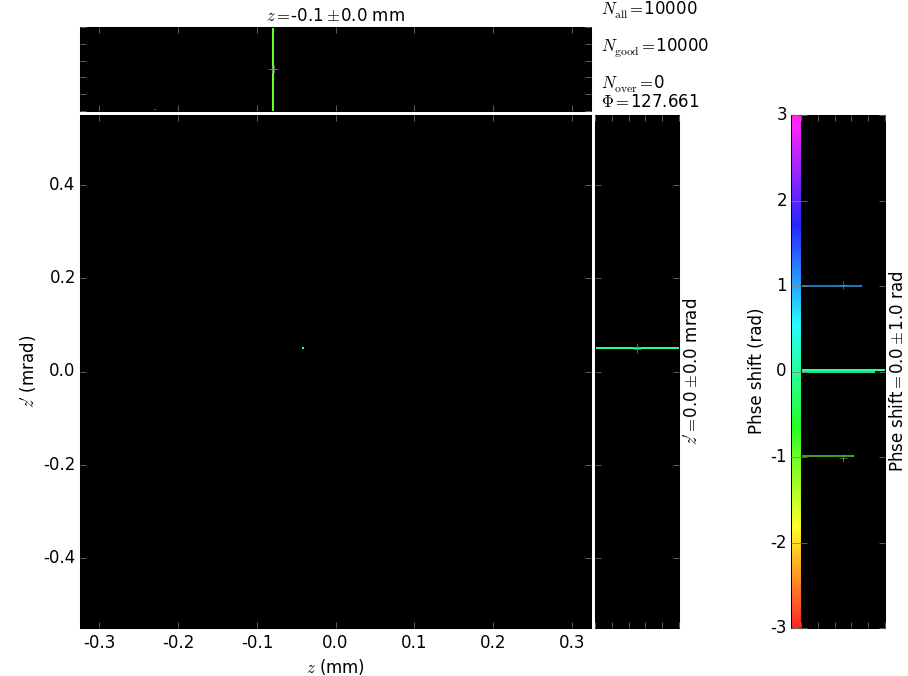
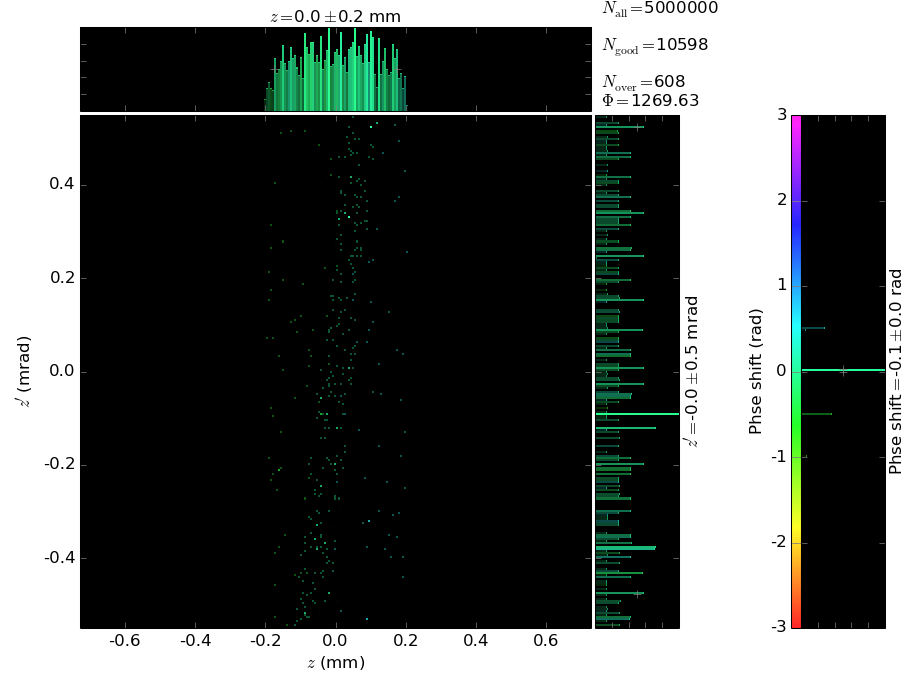
Suspiciously low transmission

diff --git a/simplfiedMonoCapillary.py b/simplfiedMonoCapillary.py
@@ -29,27 +29,27 @@ import scipy.io
     
 # ray traycing settings    
 mGlass = rm.Material(('Si', 'O'), quantities=(1, 2), rho=2.2)
-repeats = 1e3    # number of ray traycing iterations
+repeats = 1e4    # number of ray traycing iterations
 E0 = 9000.          # energy in electronoVolts
-nRefl = 480          # number of reflections
+nRefl = 100          # number of reflections
 
 # capillary shape parameters
 rSample = 30.0 # starting position of the lens
 L_ = 100.0
 f = rSample + L_ # y length in mm from foucs to the end of the lens
-r0 = 0.09
-rOut = 0.09
+r0 = 0.202
+rOut = 0.202
 wall = 0.005
 
 # parameters for local_x0 function for actual shape definition
-y_in    = 2.5            # entrance height
+y_in    = 0.1            # entrance height
 rS      = float(rSample)    # light source - capillary distance 
 # Cosh parameter for tangential ray entrance
 a_      = -L_/2/np.arcsinh(-y_in/rS)
 print a_, y_in/rS
 
 # image acquisition
-screen1_pos = rSample + 100     # not really used
+screen1_pos = rSample     # not really used
 screen2_pos = f + 1             # first image position outside capillary
 max_plots = 0                   # for imaging different position at once| 0=off
 
@@ -129,24 +129,26 @@ class StraightCapillary(roe.OE):
         z = r * np.cos(phi)
         return x, y, z
         
-def build_beamline(nrays=5000):
+def build_beamline(nrays=500):
     beamLine = raycing.BeamLine(height=0)
     # source checked @SourceView.py
     rs.GeometricSource(
         beamLine,'GeometricSource',(0,0,0), nrays=nrays,
         distx=distx, dx=dx, distxprime=distxprime, dxprime=dxprime,
         distz=distz, dz=dz, distzprime=distzprime, dzprime=dzprime,
-        distE='lines', energies=(E0,), polarization=None)              
+        distE='lines', energies=(E0,), polarization='horizontal')              
     # yo    
     beamLine.fsm1 = rsc.Screen(beamLine, 'DiamondFSM1', (0,screen1_pos,0))
     
-    alpha = 0.0
+    alpha = np.arctan(y_in/rSample)
     roll = 0 # test if this rotates whole object
-    limPhysY=[rSample*np.cos(alpha)]
+    limPhysY=[rSample*np.cos(alpha),f]
+#    limPhysY=[0, f]
+
     
     capillary = StraightCapillary(
         beamLine, 'StraightCapillary', [0,0,0], roll=roll,
-        material=mGlass, limPhysY=[0, f],
+        material=mGlass, limPhysY=limPhysY,
         order=8, f=f, rSample=rSample, entranceAlpha=alpha, rIn=r0, rOut=rOut)
     beamLine.capillary = capillary         
 #    beamLine.capillaries.append(capillary)         
@@ -225,7 +227,7 @@ def main():
     """
     REAL SPACE PLOT
     """
-    plot = xrtp.XYCPlot('beamFSM2', (1,3),
+    plot = xrtp.XYCPlot('beamFSM2', (1,),
         xaxis=xrtp.XYCAxis(r"$x$", 'mm', data=raycing.get_x, bins=256, ppb=2, limits=xLimits),
         yaxis=xrtp.XYCAxis(r"$z$", 'mm', data=raycing.get_z, bins=256, ppb=2, limits=zLimits),
 #        caxis='category', 
@@ -240,14 +242,14 @@ def main():
     
     # ITERATING OVER PLOTS {}
     for it in range(0,max_plots):
-        plot = xrtp.XYCPlot('myExposedScreen{0:02d}'.format(it), (1,3),
+        plot = xrtp.XYCPlot('myExposedScreen{0:02d}'.format(it), (1,),
             xaxis=xrtp.XYCAxis(r'$x$', 'mm', bins=256, ppb=2, limits=xLimits),
             yaxis=xrtp.XYCAxis(r'$z$', 'mm', bins=256, ppb=2, limits=zLimits),
             caxis='category', beamState='myExposedScreen{0:02d}'.format(it), title=str(it))
         plot.baseName = 'thin_cap_dist_' + str(110+it)
         plot.saveName = plot.baseName + '.png'
         plots.append(plot)    
-    xrtr.run_ray_tracing(plots, repeats=repeats, beamLine=beamLine, processes=1)
+    xrtr.run_ray_tracing(plots, repeats=repeats, beamLine=beamLine, processes=7)
     
     # savemat() takes a dict of names later loaded into matlab and objects
     # we want to save,
